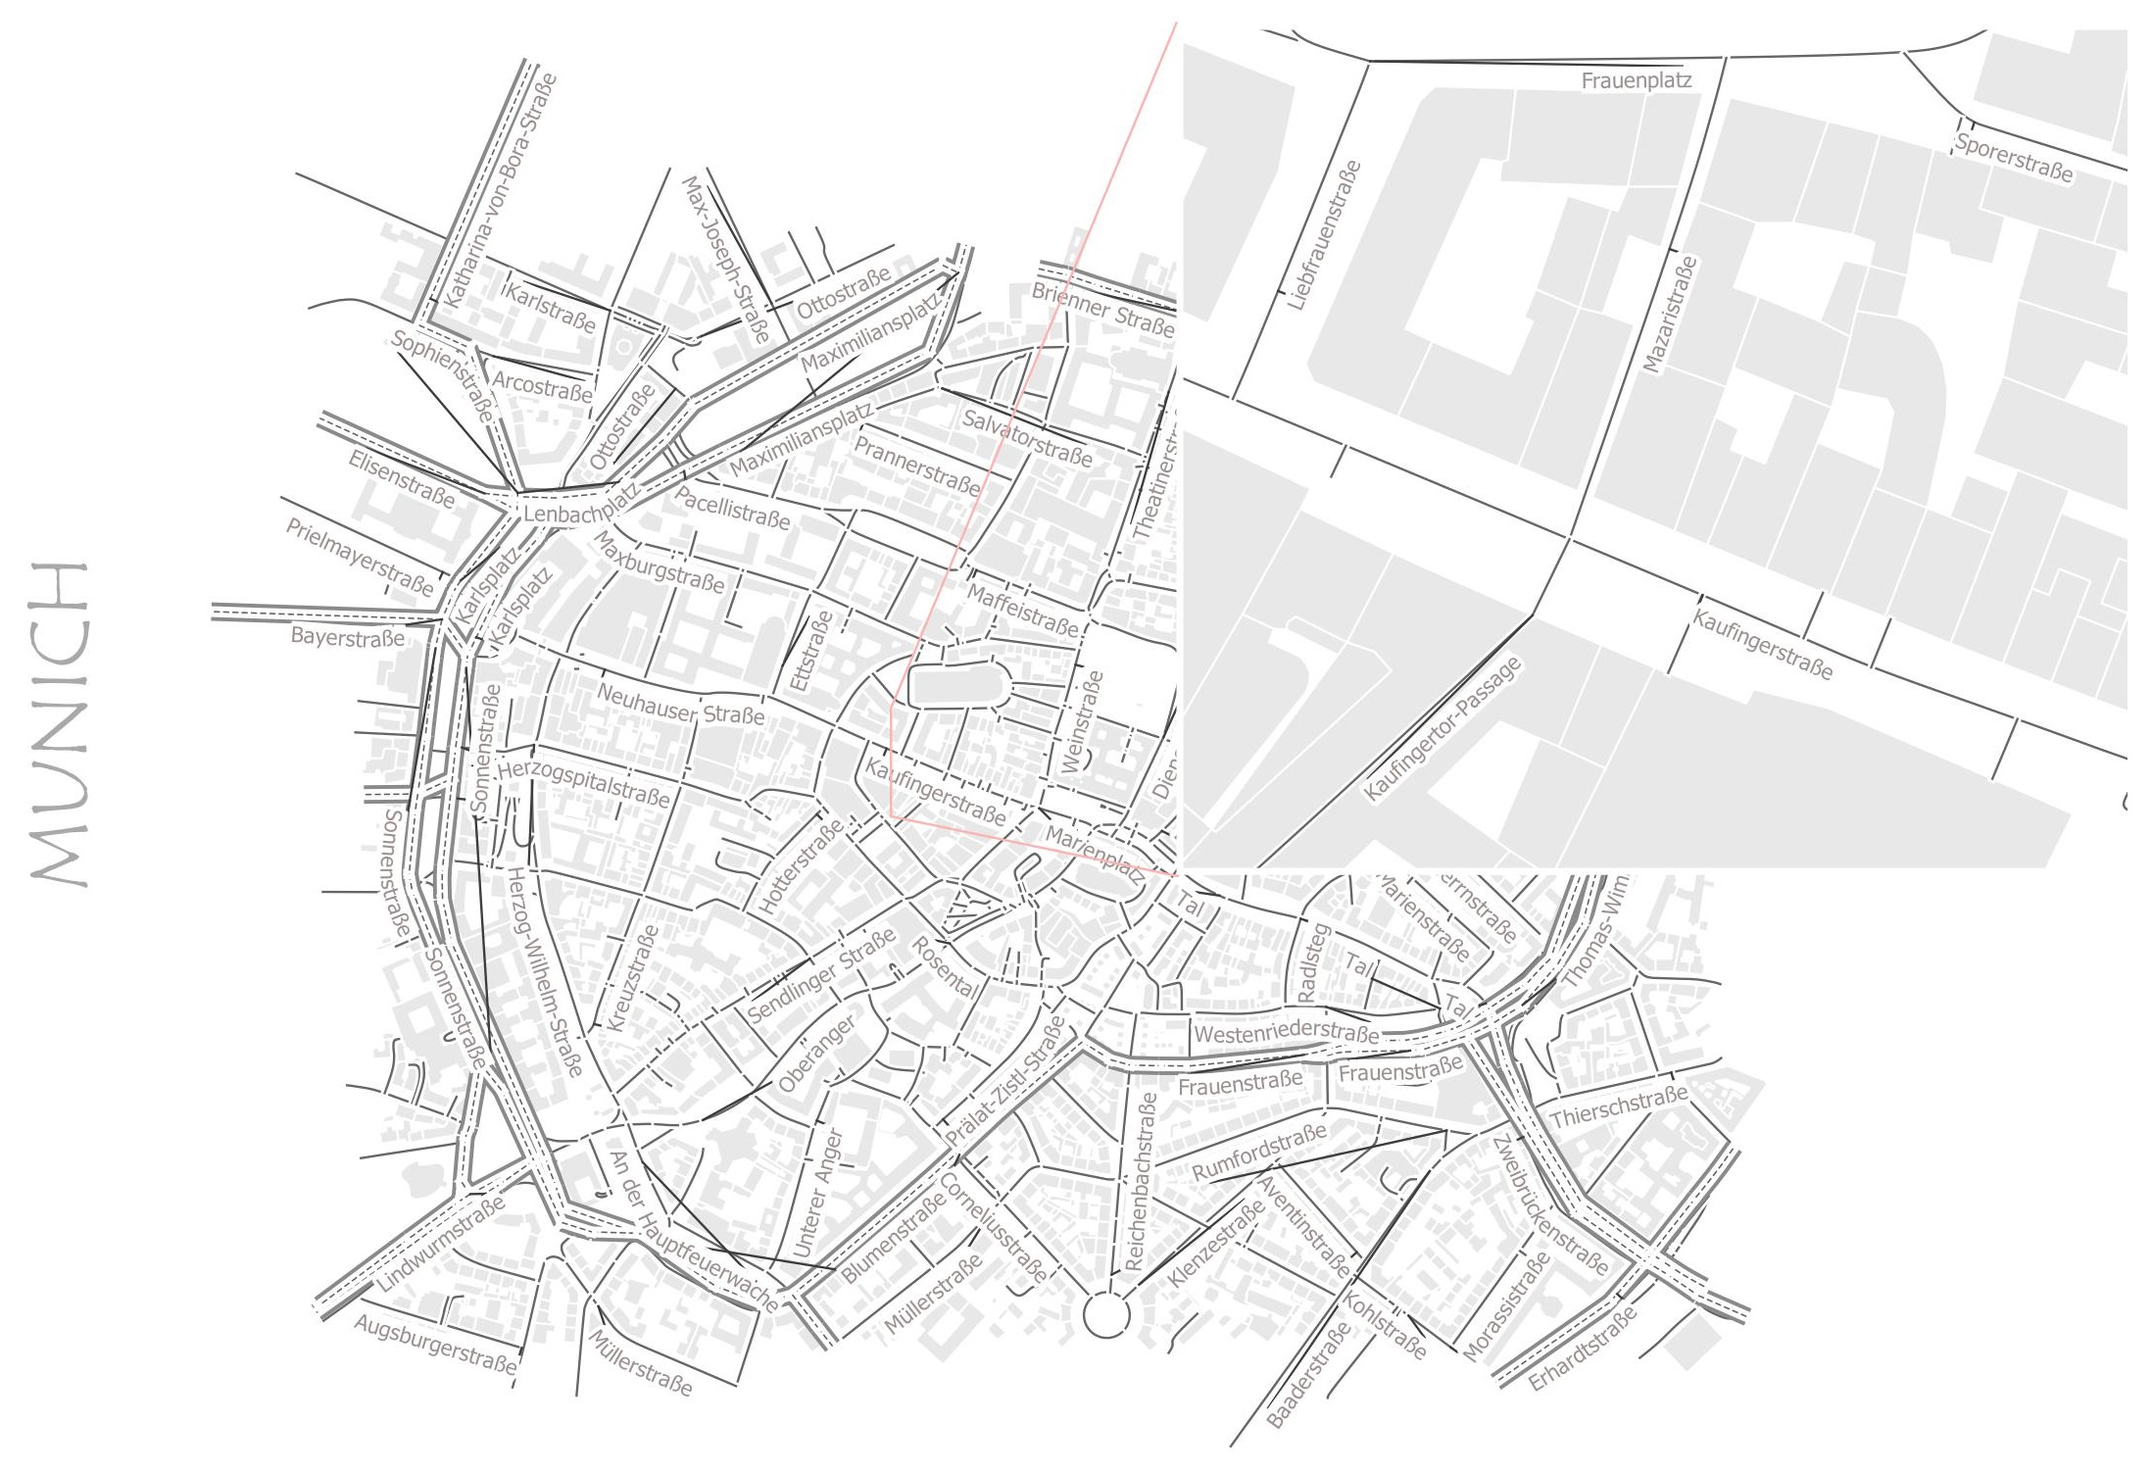
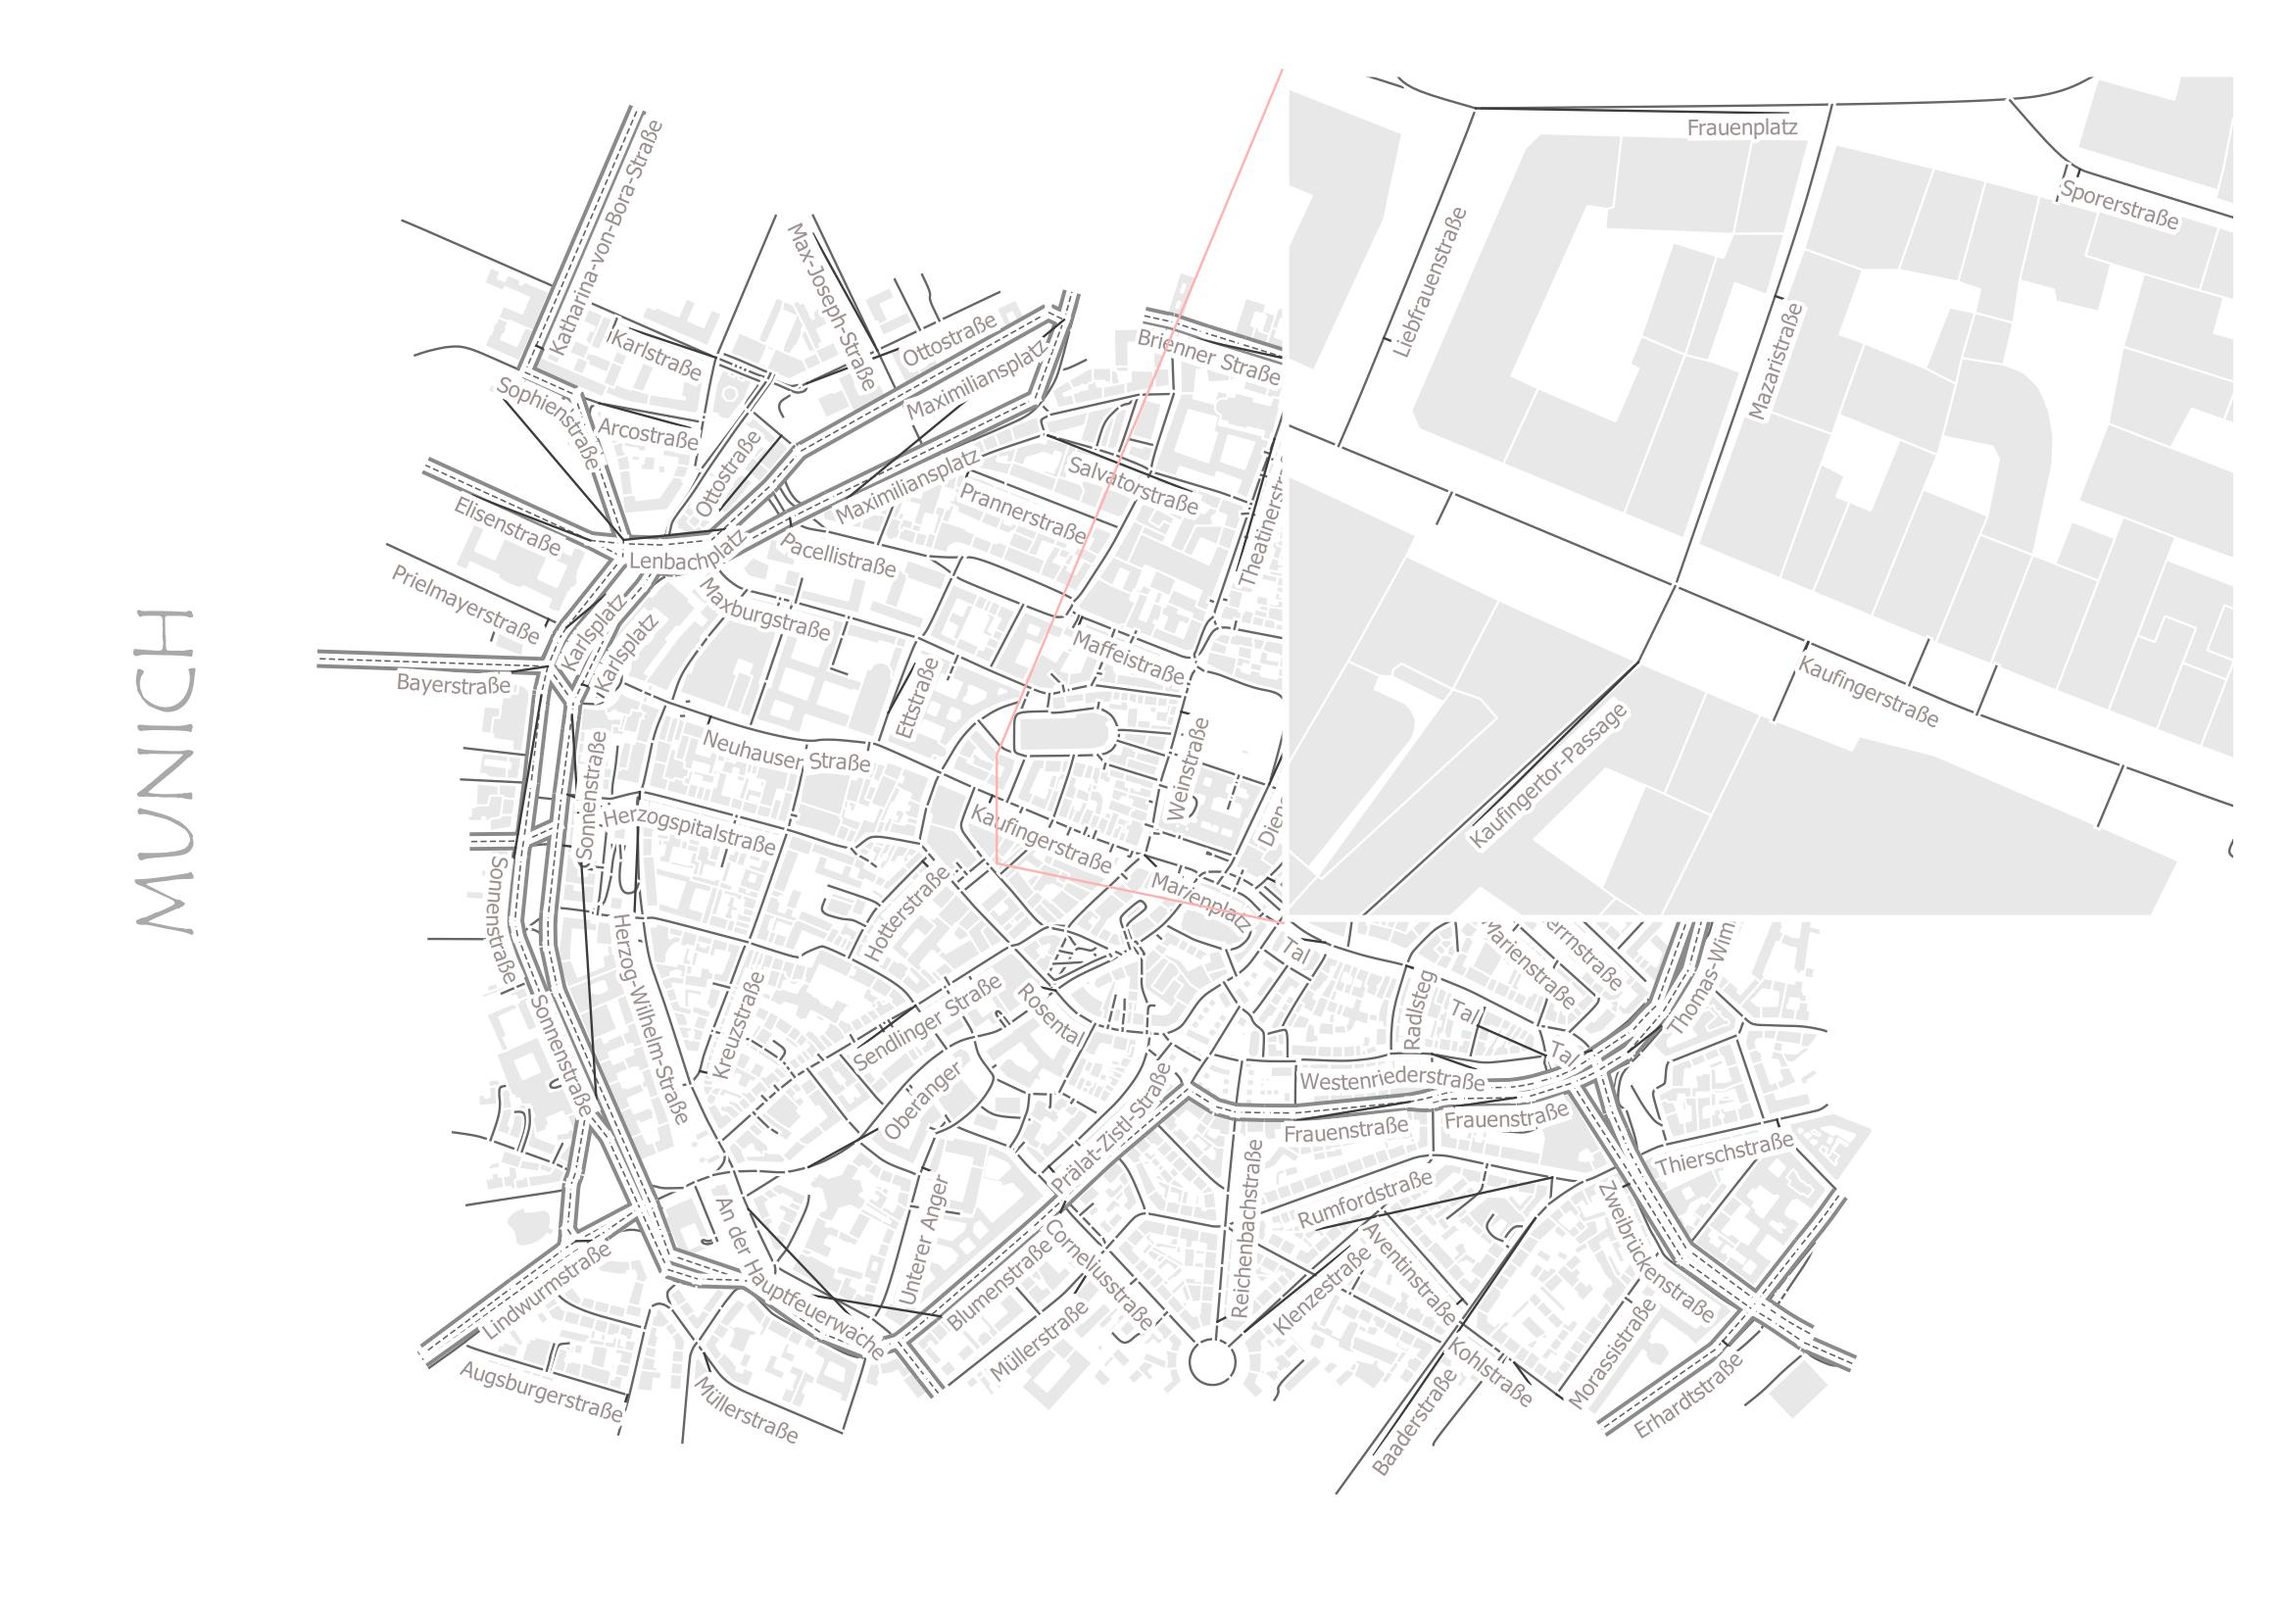
Add files via upload

diff --git a/contact.html b/contact.html
@@ -25,7 +25,7 @@
   <div id="gis-rs" class="section">
     <h2 class="section-heading">GIS & RS</h2>
     <ul>
-      <p>GIS (Geographic Information Systems) and RS (Remote Sensing) are powerful tools that can be used to analyze and visualize spatial data. With these skills, I am able to analyze and interpret geographical information to create detailed maps, conduct spatial analysis, and generate reports to support decision-making processes. I have experience using a range of GIS and RS software, such as ArcGIS, QGIS, SNAP and ENVI, and can integrate these tools with other data sources to gain a comprehensive understanding of spatial patterns and trends. Whether it's creating maps for planning purposes, conducting spatial analysis to identify hotspots, or using remote sensing techniques to monitor environmental changes, I can leverage these skills to provide valuable solutions and support to a range of projects.</p>
+      <p>GIS (Geographic Information Systems) and RS (Remote Sensing) are powerful tools that can be used to analyze and visualize spatial data. With these skills, I am able to analyze and interpret geographical information to create detailed maps, conduct spatial analysis, and generate reports to support decision-making processes. I have experience using a range of GIS and RS software, such as ArcGIS, QGIS, SNAP and ENVI, and can integrate these tools with other data sources to gain a comprehensive understanding of spatial patterns and trends. Whether it's creating maps for planning purposes, conducting spatial analysis to identify hotspots, or using remote sensing techniques to monitor environmental changes, I can leverage these skills to provide valuable solutions and support to a range of projects. (The photos in this category are of my hobbies or academic interests.) </p>
     </ul>
     <div class="swiper-container">
       <div class="swiper-wrapper">
@@ -34,16 +34,20 @@
           <div class="caption">Capturing the dynamic essence of terrain with contour lines.</div>
         </div>
         <div class="swiper-slide">
+          <img src="germay.jpeg">
+          <div class="caption">Germany elevation circles.</div>
+        </div>
+        <div class="swiper-slide">
+          <img src="urban-areas.jpeg">
+          <div class="caption">Urban areas depicting night lights.</div>
+        </div>
+        <div class="swiper-slide">
           <img src="freiburg1.jpeg">
           <div class="caption">Exploring Freiburg's elevation in a paper cut design.</div>
         </div>
         <div class="swiper-slide">
-          <img src="munich2.jpeg">
+          <img src="munich5.jpeg">
           <div class="caption">Munich's roads, streets, and buildings drawn in minimalist style.</div>
-        </div>
-        <div class="swiper-slide">
-          <img src="map.jpg">
-          <div class="caption">Exploring OpenStreetData: Navigating the World through a Detailed Map.</div>
         </div>
         <div class="swiper-slide">
           <img src="lidar.gif">
@@ -54,8 +58,8 @@
           <div class="caption">From peaks to valleys: elevation map showcases Germany's diverse landscape.</div>
         </div>
         <div class="swiper-slide">
-          <img src="elevations.jpg">
-          <div class="caption">From peaks to valleys: elevation map showcases Germany's diverse landscape.</div>
+          <img src="freiburg5.jpeg">
+          <div class="caption">Freiburg inner city.</div>
         </div>
         <div class="swiper-slide">
           <img src="download.png">
@@ -74,7 +78,7 @@
   <div id="programming" class="section">
     <h2 class="section-heading">Programming</h2>
     <ul>
-      <p>I am experienced with using Python for various data analysis tasks and have developed proficiency in using several popular Python libraries such as gdal, geopandas, cartopy, xarray, harp, geemap, scikit-learn, and PYSAL. I have also worked on several hobby projects that have allowed me to hone my machine learning skills in the geospatial domain. In addition to my data analysis skills, I have experience working with MATLAB for numerical modeling in the field of earth sciences.</p>
+      <p>I am experienced with using Python for various data analysis tasks and have developed proficiency in using several popular Python libraries such as gdal, geopandas, cartopy, xarray, harp, geemap, scikit-learn, and PYSAL. I have also worked on several hobby projects that have allowed me to hone my machine learning skills in the geospatial domain. In addition to my data analysis skills, I have experience working with MATLAB for numerical modeling in the field of earth sciences. (The photos in this category are of my hobbies or academic interests.)</p>
     </ul>
     <div class="swiper-container">
       <div class="swiper-wrapper">
@@ -156,13 +160,21 @@
   <div id="web" class="section">
     <h2 class="section-heading">Web-Development</h2>
     <ul>
-      <p>My most recent interest lies in web development, though I am not yet proficient in this area. Nonetheless, I have been working on building my skills in HTML, CSS, and JavaScript, and have developed a basic understanding of website design principles. I am excited to continue learning and exploring this area of technology.</p>
+      <p>My most recent interest lies in web development, particularly in the context of Web GIS development. I have been actively exploring and gaining hands-on experience with powerful libraries like OpenLayers and Leaflet to create basic yet functional web GIS applications. While I am not yet proficient in this area, I am dedicated to building my skills in HTML, CSS, and JavaScript.</p>
     </ul>
     <div class="swiper-container">
       <div class="swiper-wrapper">
         <div class="swiper-slide">
           <img src="web.jpg">
           <div class="caption">Snippet of code from my personal webpage</div>
+        </div>
+        <div class="swiper-slide">
+          <img src="2.jpg">
+          <div class="caption">Basic Web GIS App made with open-layers</div>
+        </div>
+        <div class="swiper-slide">
+          <img src="3.jpg">
+          <div class="caption">Basic Web GIS App made with open-layers</div>
         </div>
       </div>
       <div class="swiper-button-prev"></div>

diff --git a/resume.html b/resume.html
@@ -43,24 +43,18 @@
         <ul>
           <li>
             <h3>GIS Specialist, MapTransfer</h3>
-            <p>Oct 2022 - Present </p>
-            <p>As a member of the Spatial Data Management project for a construction company, I am responsible for tasks including georeferencing maps, merging orthophoto tiles, generating cloud-optimized GeoTIFFs, and importing and managing vector data in PostGIS. These tasks require a strong foundation in geospatial data management and analysis, and I am committed to delivering high-quality work on time.</p>
+            <p>Oct 2022 - May 2023 </p>
+            <p>As a member of the Spatial Data Management project for a construction company, I am responsible for tasks including georeferencing maps, merging orthophoto tiles, generating cloud-optimized GeoTIFFs, and importing and managing vector data in PostGIS. These tasks require a strong foundation in geospatial data management and analysis, and I am committed to delivering high-quality work on time. Additionally, I have developed a basic web GIS application as part of my contributions to the project. This application efficiently retrieves vector layers from PostGIS using Geoserver's WMS format and presents them in OpenLayers for intuitive web-based viewing.</p>
           </li>
           <li>
             <h3>GIS Trainer, MapTransfer</h3>
-            <p>Apr 2021 - Present </p>
-            <p>In my role as a GIS trainer, I have had the opportunity to deliver a variety of in-house courses, including LiDAR Data in QGIS, Spatial Data Analysis, and Spatial SQL. I have also been involved in the collaborative development of these courses. My work as a trainer has given me the chance to share my skills and knowledge with others, and I am committed to staying current in my field and continually improving my abilities.</p>
+            <p>Apr 2021 - March 2023 </p>
+            <p>In my role as a GIS trainer, I have had the opportunity to deliver a variety of in-house courses, including LiDAR Data in QGIS, Spatial Data Analysis, Spatial SQL and Geoserver. I have also been involved in the collaborative development of these courses. My work as a trainer has given me the chance to share my skills and knowledge with others, and I am committed to staying current in my field and continually improving my abilities.</p>
           </li>
           <li>
             <h3>GIS Specialist, Freelance</h3>
-            <p>Aug 2021 - Nov 2022 </p>
+            <p>Aug 2021 - March 2023 </p>
             <p>As a Fiber Optic Documentation Specialist, I was responsible for field data processing using QGIS. My responsibilities included converting CSV files into various shapefile components, digitizing data, and creating visual representations of fiber optic networks, also known as fiber maps. I utilized a variety of QGIS tools, such as the Vector, Raster, and Data Management toolbars, to effectively manage and analyze field data. I also gained experience with maintaining digital records of all network components in a geopackage.</p>
-          </li>
-          <li>
-            <h3>Professional development and Career Break</h3>
-            <p>May 2019 - Mar 2020 </p>
-            <p>During my career break, I worked on a variety of hobby projects that revolved around remote sensing data and geospatial analysis using Python. I utilized a range of powerful libraries and frameworks, including Numpy, Xarrays, Geopandas, Shapely, Fiona, GDAL, and Rasterio, to manipulate and analyze geospatial data stored in a variety of formats.</p>
-            <p>I applied machine learning techniques using Scikit-learn, a popular Python library for machine learning, to remote sensing data in order to classify and predict land cover patterns. I also gained experience with Google Earth Engine, a cloud-based platform for geospatial analysis, which allowed me to access and analyze large datasets of satellite imagery and other geospatial data.</p>
           </li>
           <li>
             <h3>GIS Analyst, Pakland Builders</h3>
@@ -98,12 +92,12 @@
           <li>GIS : ArcMap, QGIS</li>
           <li>Remote Sensing : ENVI, Whitebox Tools, Erdas Imagine, eCognition, ESA SNAP, Google Earth Engine</li>
           <li>Programming : Skilled in Python and SQL programming for geospatial data analysis and visualization</li>
-          <li>Geodatabases : Experienced in developing and managing Geodatabases, i.e. PostGresSQl and ESRI</li>
+          <li>Geodatabases : Experienced in managing PostgreSQL (PostGIS) & SQLite (SpatialLite) Geodatabases</li>
         </ul>
         <h4>Web Development Skills:</h4>
         <ul>
-          <li>HTML and CSS (Intermediate)</li>
-          <li>Javascript (Basic)</li>
+          <li>HTML and CSS (Beginner)</li>
+          <li>Javascript (Beginner)</li>
           <li>Some exposure to Amazon Web Services</li>
         </ul>
         <h4>Other Skills:</h4>

diff --git a/about.html b/about.html
@@ -22,7 +22,7 @@
       <h2>About Me</h2>
       <p>My journey in GIS and Remote Sensing started during my undergraduate studies in Geology, where I discovered the potential of spatial data to address real-world challenges. During my graduate studies, I focused on building advanced skills in GIS and Remote Sensing by taking courses in image analysis, geospatial statistics, and spatial databases. I also worked on various research projects using Earth Observation data to investigate the impact of climate variability on our planet.</p>
       <p>I have been fortunate to work on a wide range of exciting projects that have challenged me to push my skills to new limits. My experience includes conducting GIS and Remote Sensing analysis, managing and organizing spatial data in Geodatabases, designing and developing geospatial models, creating custom maps, and more. I have worked with clients from various industries, including urban planning, natural resource management, and academia, among others. These projects have given me the opportunity to apply my skills in innovative ways and to develop custom solutions to complex spatial problems. </p>
-      <p>In addition to my work in traditional GIS and Remote Sensing, I am also passionate about exploring the potential of machine learning and deep learning in spatial science. In fact, during my free time, I enjoy working on hobby projects that involve building machine learning models for spatial data analysis. Moreover, I have a keen interest in data visualization, open data, and emerging technologies in the field. I am constantly exploring new tools and techniques to improve my work and stay at the forefront of the field. </p>
+      <p>In addition to my work in traditional GIS and Remote Sensing, I am also passionate about exploring the potential of machine learning and deep learning in spatial science. Moreover, I have a keen interest in data visualization, open data, and Web GIS development. I am constantly exploring new tools and techniques to improve my work and stay at the forefront of the field. </p>
     </section>
     <section id="kollapse">
       <div class="collapse">
@@ -65,10 +65,10 @@
             <i></i>
             <h2>Skills</h2>
             <p>
-              GIS & RS<br>
-              Python, Matlab, Spatial SQL<br>
+              GIS & RS <br>
+              Python, Matlab, Spatial SQL <br>
               Geodatabases<br>
-              Web-Development (moderate level) <br>
+              Web-Development (Beginner level) <br>
             </p>
           </li>
         </ul>

diff --git a/index.html b/index.html
@@ -82,7 +82,7 @@
               <div class="timeline-blank"></div>
               <div class="timeline-text d-flex-2">
                 <span>
-                  <h6>2021 - Present </h6> — Freelancer in Geospatial Industry
+                  <h6>2021 - Present </h6> — GIS Specialist
                 </span>
                 <div class="t-square"></div>
               </div>
